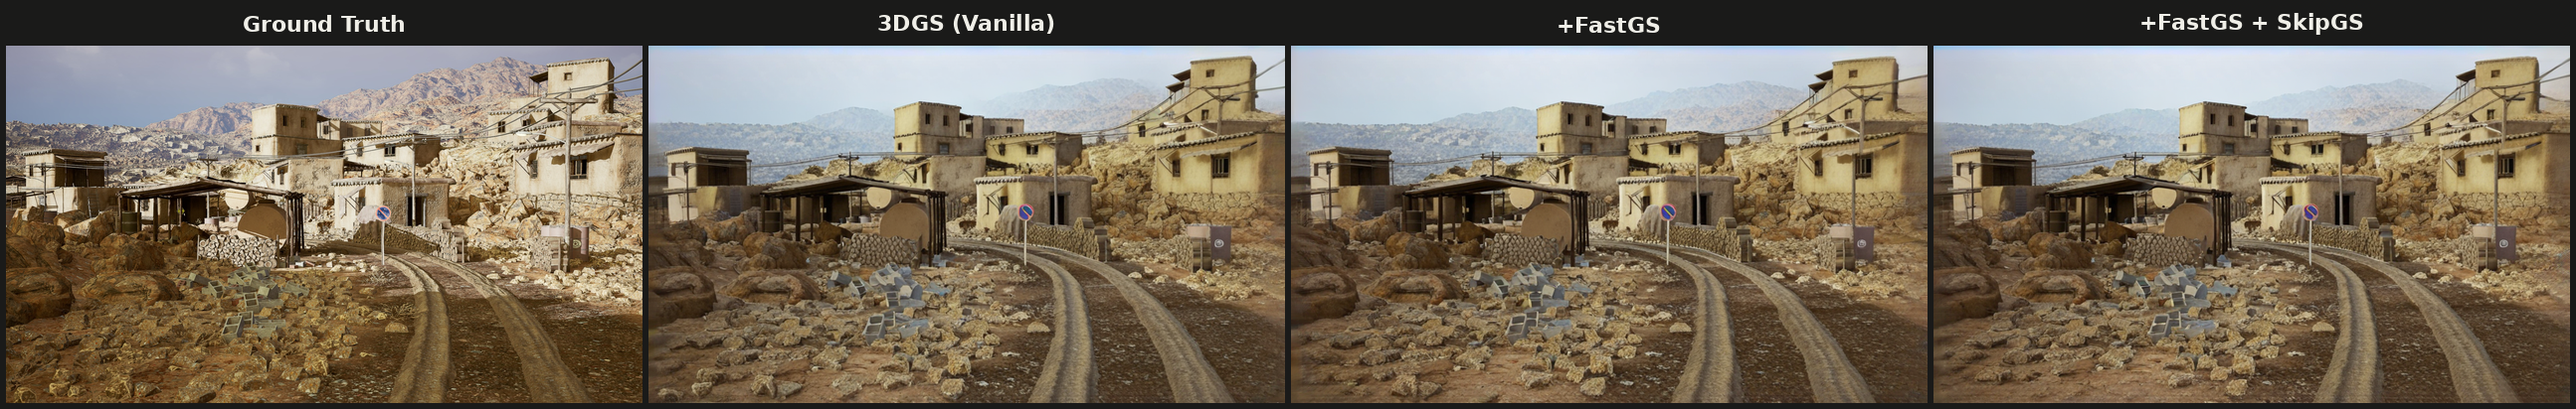
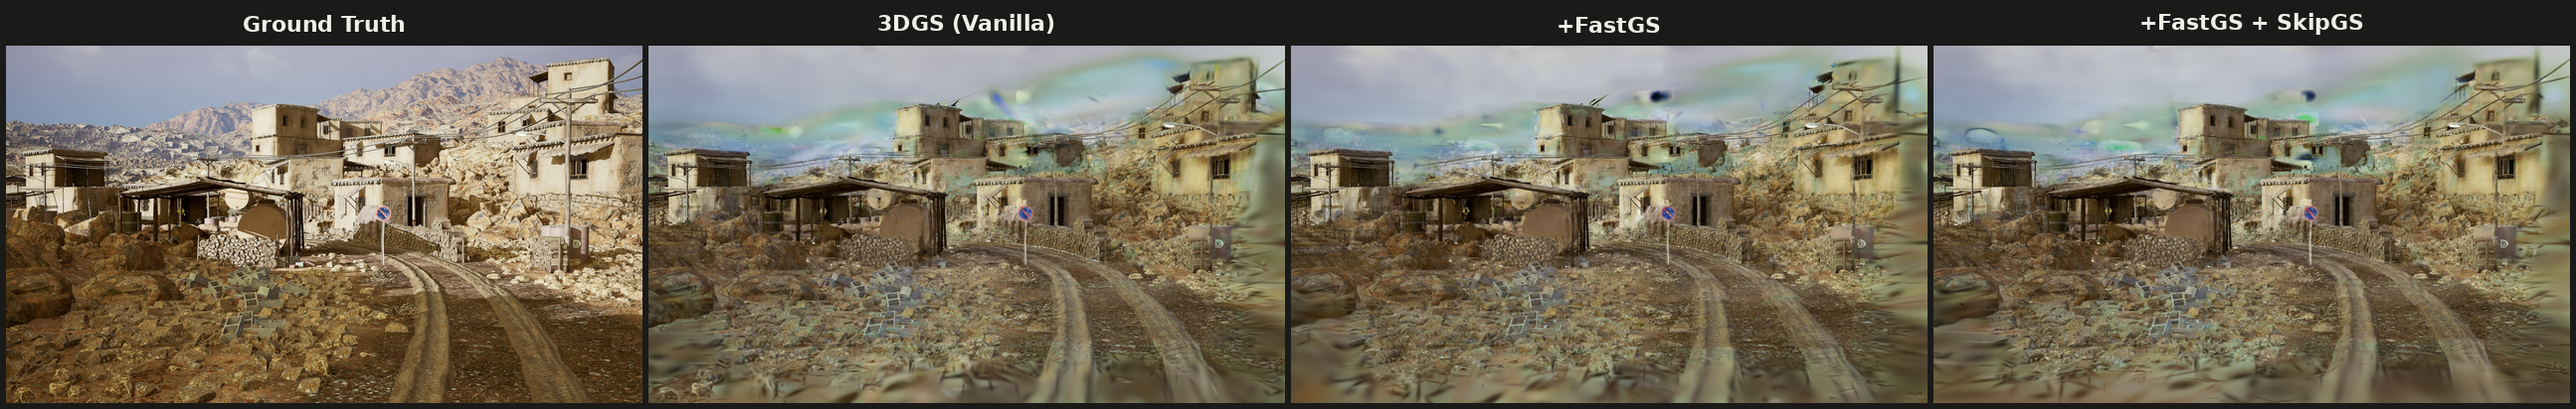
gh-pages: WRIVA final renders — swap to pre-difix (raw model output)

diff --git a/index.html b/index.html
@@ -145,8 +145,8 @@ a{color:var(--accent)}
 </div>
 <p class="hint">Fullscreen the video to view better. PSNR is measured on a single fixed test view (index 0), sampled every 500 iters; the fast-phase speed is chosen per scene to keep each video ~30 s. Snapshot rendering is excluded from the reported training time.</p>
 
-<h2>WRIVA final renders (iter 23k, post-difix)</h2>
-<p class="lead" style="margin-bottom:14px">Same held-out test view rendered by each finished model, four-column side by side: Ground Truth, 3DGS Vanilla, +FastGS, +FastGS + SkipGS. Renders shown are the post-difix cleanup outputs (i.e. what the WRIVA-Phase-2 pipeline actually delivers per scene); config-to-config visual differences are minor across all seven scenes.</p>
+<h2>WRIVA final renders (iter 23k, raw model output — no diffusion cleanup)</h2>
+<p class="lead" style="margin-bottom:14px">Same held-out test view rendered by each finished model at iteration 23000, four-column side by side: Ground Truth, 3DGS Vanilla, +FastGS, +FastGS + SkipGS. These are the raw Gaussian-splat outputs (WRIVA pipeline's <code>rendered_images_beforeDifixCleanup</code> — no diffusion / difix cleanup applied), so all three configs share the same visual fidelity ceiling; the point is that FastGS and SkipGS reach it in about half the training time without extra degradation.</p>
 <div class="tabs" role="tablist" aria-label="WRIVA final-render scene">
   <button class="tab wriva-final-tab active" data-wrivafinal="t01_v20_s03_r01_ImageDensity_S07_Cathedral_Outdoor">Cathedral</button>
   <button class="tab wriva-final-tab" data-wrivafinal="t01_v18_s03_r02_ImageDensity_S06_low_contrast">low_contrast</button>
